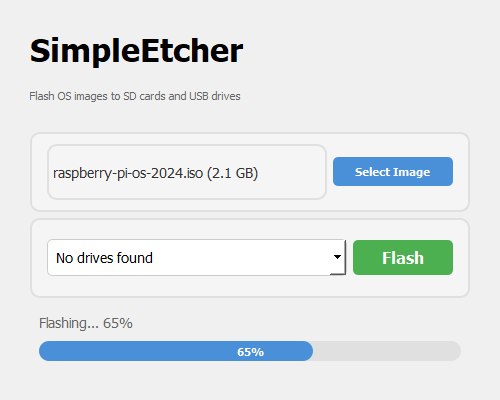
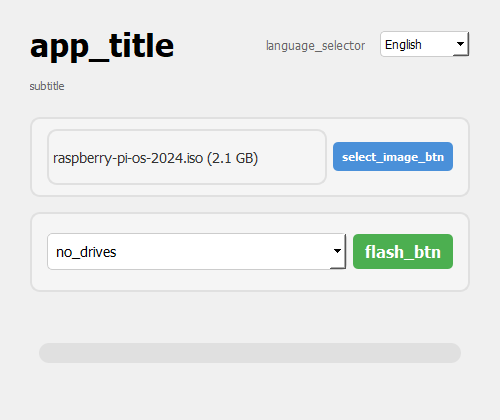
Add language selector with English and Persian translations, RTL support

diff --git a/etcher.py b/etcher.py
@@ -7,6 +7,7 @@ Flashes OS images (.iso, .img) to SD cards and USB drives.
 import sys
 import os
 import time
+import json
 import platform
 from datetime import timedelta
 
@@ -30,6 +31,30 @@ except ImportError:
 
 console = Console() if HAS_RICH else None
 
+# Translation system
+TRANSLATIONS = {}
+CURRENT_LANGUAGE = "en"
+
+def load_translations(lang):
+    global CURRENT_LANGUAGE, TRANSLATIONS
+    try:
+        with open(f"translations/{lang}.json", "r", encoding="utf-8") as f:
+            TRANSLATIONS = json.load(f)
+            CURRENT_LANGUAGE = lang
+            return True
+    except Exception as e:
+        print(f"Error loading translations for {lang}: {e}")
+        return False
+
+def t(key, **kwargs):
+    """Translate a key with optional string formatting."""
+    text = TRANSLATIONS.get(key, key)
+    if kwargs:
+        try:
+            text = text.format(**kwargs)
+        except Exception:
+            pass
+    return text
 
 def get_platform():
     """Detect current platform."""
@@ -212,8 +237,8 @@ class EtcherWindow(QMainWindow):
 
     def __init__(self):
         super().__init__()
-        self.setWindowTitle("SimpleEtcher")
-        self.setFixedSize(500, 400)
+        self.setWindowTitle(t("app_title"))
+        self.setFixedSize(500, 420)
 
         # State
         self.selected_image = None
@@ -223,19 +248,47 @@ class EtcherWindow(QMainWindow):
         central = QWidget()
         self.setCentralWidget(central)
         layout = QVBoxLayout(central)
-        layout.setSpacing(20)
-        layout.setContentsMargins(30, 30, 30, 30)
+        layout.setSpacing(15)
+        layout.setContentsMargins(30, 25, 30, 25)
 
-        # Title
-        title_label = QLabel("SimpleEtcher")
+        # Title row with language selector
+        title_row = QHBoxLayout()
+        
+        title_label = QLabel(t("app_title"))
         title_font = QFont()
         title_font.setBold(True)
         title_font.setPointSize(24)
         title_label.setFont(title_font)
-        layout.addWidget(title_label)
+        self.title_label = title_label
+        title_row.addWidget(title_label, 1)
+        
+        # Language selector
+        lang_row = QHBoxLayout()
+        lang_label = QLabel(t("language_selector"))
+        lang_label.setStyleSheet("color: #666; font-size: 12px;")
+        self.lang_combo = QComboBox()
+        self.lang_combo.addItems(["English", "فارسی"])
+        self.lang_combo.setCurrentIndex(0 if CURRENT_LANGUAGE == "en" else 1)
+        self.lang_combo.setFixedWidth(90)
+        self.lang_combo.setStyleSheet("""
+            QComboBox {
+                padding: 4px;
+                border: 1px solid #ccc;
+                border-radius: 4px;
+                background-color: white;
+                font-size: 12px;
+            }
+        """)
+        self.lang_combo.currentIndexChanged.connect(self.change_language)
+        lang_row.addWidget(lang_label)
+        lang_row.addWidget(self.lang_combo)
+        title_row.addLayout(lang_row)
+        
+        layout.addLayout(title_row)
 
-        subtitle_label = QLabel("Flash OS images to SD cards and USB drives")
+        subtitle_label = QLabel(t("subtitle"))
         subtitle_label.setStyleSheet("color: #666;")
+        self.subtitle_label = subtitle_label
         layout.addWidget(subtitle_label)
 
         layout.addSpacing(10)
@@ -253,11 +306,11 @@ class EtcherWindow(QMainWindow):
         image_layout = QHBoxLayout(self.image_card)
         image_layout.setContentsMargins(15, 10, 15, 10)
 
-        self.image_label = QLabel("No image selected")
+        self.image_label = QLabel(t("no_image"))
         self.image_label.setStyleSheet("color: #999; font-size: 14px;")
         image_layout.addWidget(self.image_label, 1)
 
-        self.select_image_btn = QPushButton("Select Image")
+        self.select_image_btn = QPushButton(t("select_image_btn"))
         self.select_image_btn.setFixedWidth(120)
         self.select_image_btn.setStyleSheet("""
             QPushButton {
@@ -303,7 +356,7 @@ class EtcherWindow(QMainWindow):
         self.refresh_drives()
         drive_layout.addWidget(self.drive_combo, 1)
 
-        self.flash_btn = QPushButton("Flash")
+        self.flash_btn = QPushButton(t("flash_btn"))
         self.flash_btn.setFixedWidth(100)
         self.flash_btn.setStyleSheet("""
             QPushButton {
@@ -360,9 +413,9 @@ class EtcherWindow(QMainWindow):
 
     def select_image(self):
         file_path, _ = QFileDialog.getOpenFileName(
-            self, "Select Image File",
+            self, t("select_image_dialog_title"),
             "",
-            "Disk Images (*.iso *.img);;All Files (*)"
+            t("image_files_filter")
         )
         if file_path:
             self.selected_image = file_path
@@ -377,7 +430,7 @@ class EtcherWindow(QMainWindow):
 
         drives = list_drives()
         if not drives:
-            self.drive_combo.addItem("No drives found")
+            self.drive_combo.addItem(t("no_drives"))
         else:
             for drive in drives:
                 size = format_size(drive["size"]) if drive["size"] > 0 else "unknown"
@@ -402,8 +455,8 @@ class EtcherWindow(QMainWindow):
 
         # Confirm
         reply = QMessageBox.question(
-            self, "Confirm Flash",
-            f"Flash {os.path.basename(self.selected_image)} to {drive_device}?\n\nThis will erase all data on the drive!",
+            self, t("confirm_flash_title"),
+            t("confirm_flash_msg", image=os.path.basename(self.selected_image), drive=drive_device),
             QMessageBox.Yes | QMessageBox.No,
             QMessageBox.No
         )
@@ -414,7 +467,7 @@ class EtcherWindow(QMainWindow):
         self.select_image_btn.setEnabled(False)
         self.drive_combo.setEnabled(False)
         self.flash_btn.setEnabled(False)
-        self.status_label.setText("Flashing...")
+        self.status_label.setText(t("flashing_status", pct=0))
         self.progress_bar.setValue(0)
 
         # Start worker
@@ -426,8 +479,44 @@ class EtcherWindow(QMainWindow):
     def update_progress(self, pct):
         self.progress_bar.setValue(pct)
         if pct < 100:
-            self.status_label.setText(f"Flashing... {pct}%")
+            self.status_label.setText(t("flashing_status", pct=pct))
 
+    def change_language(self, index):
+        lang = "en" if index == 0 else "fa"
+        load_translations(lang)
+        
+        # Update all UI elements
+        self.setWindowTitle(t("app_title"))
+        self.title_label.setText(t("app_title"))
+        self.subtitle_label.setText(t("subtitle"))
+        self.select_image_btn.setText(t("select_image_btn"))
+        self.flash_btn.setText(t("flash_btn"))
+        
+        if not self.selected_image:
+            self.image_label.setText(t("no_image"))
+        
+        # Update status label with translated key
+        current_pct = self.progress_bar.value()
+        if current_pct < 100:
+            self.status_label.setText(t("flashing_status", pct=current_pct))
+        else:
+            self.status_label.setText(t("flashing_complete"))
+        
+        # Refresh drives to update "No drives found" text
+        self.refresh_drives()
+        
+        # Update language combo display
+        if lang == "en":
+            self.lang_combo.setCurrentIndex(0)
+        else:
+            self.lang_combo.setCurrentIndex(1)
+        
+        # Set RTL layout for Persian
+        if lang == "fa":
+            self.setLayoutDirection(Qt.RightToLeft)
+        else:
+            self.setLayoutDirection(Qt.LeftToRight)
+    
     def flash_finished(self, success, message):
         # Re-enable UI
         self.select_image_btn.setEnabled(True)
@@ -435,18 +524,21 @@ class EtcherWindow(QMainWindow):
         self.flash_btn.setEnabled(True)
 
         if success:
-            self.status_label.setText("✓ " + message)
+            self.status_label.setText(t("flashing_complete"))
             self.status_label.setStyleSheet("color: #4CAF50; font-size: 14px; font-weight: bold;")
-            QMessageBox.information(self, "Success", message)
+            QMessageBox.information(self, t("success_dialog_title"), message)
         else:
-            self.status_label.setText("✗ " + message)
+            self.status_label.setText(t("error_prefix") + message)
             self.status_label.setStyleSheet("color: #f44336; font-size: 14px; font-weight: bold;")
-            QMessageBox.critical(self, "Error", message)
+            QMessageBox.critical(self, t("error_dialog_title"), message)
 
         self.progress_bar.setValue(0)
 
 
 def main():
+    # Load default translations
+    load_translations("en")
+    
     if HAS_QT:
         app = QApplication(sys.argv)
         window = EtcherWindow()

diff --git a/screenshot.py b/screenshot.py
@@ -3,9 +3,10 @@
 
 import sys
 import os
-from PyQt5.QtWidgets import QApplication, QFileDialog
+import time
+from PyQt5.QtWidgets import QApplication
 from PyQt5.QtCore import QTimer, Qt
-from etcher import EtcherWindow
+from etcher import EtcherWindow, load_translations, t
 
 def capture_screenshots():
     app = QApplication(sys.argv)
@@ -13,42 +14,36 @@ def capture_screenshots():
     window.show()
     app.processEvents()
 
-    # Screenshot 1: Initial state
-    QTimer.singleShot(500, lambda: take_screenshot(window, "screenshot_initial.png"))
-    
-    # Wait for first screenshot
-    app.processEvents()
-    import time
-    time.sleep(1)
+    # Screenshot 1: Initial state (English)
+    time.sleep(0.5)
+    take_screenshot(window, "screenshot_initial.png")
 
-    # Simulate selecting an image (just set the label text)
+    # Simulate selecting an image
     window.selected_image = "raspberry-pi-os-2024.iso"
     window.image_label.setText("raspberry-pi-os-2024.iso (2.1 GB)")
     window.image_label.setStyleSheet("color: #333; font-size: 14px;")
     app.processEvents()
 
-    # Screenshot 2: Image selected
-    QTimer.singleShot(500, lambda: take_screenshot(window, "screenshot_image_selected.png"))
-    time.sleep(1)
+    # Screenshot 2: Image selected (English)
+    time.sleep(0.5)
+    take_screenshot(window, "screenshot_image_selected.png")
 
     # Simulate progress
-    window.status_label.setText("Flashing... 65%")
+    window.status_label.setText(t("flashing_status", pct=65))
     window.progress_bar.setValue(65)
     app.processEvents()
 
-    # Screenshot 3: During flashing
-    QTimer.singleShot(500, lambda: take_screenshot(window, "screenshot_flashing.png"))
-    time.sleep(1)
+    # Screenshot 3: During flashing (English)
+    time.sleep(0.5)
+    take_screenshot(window, "screenshot_flashing.png")
 
-    # Simulate completion
-    window.status_label.setText("✓ Flashing complete!")
-    window.status_label.setStyleSheet("color: #4CAF50; font-size: 14px; font-weight: bold;")
-    window.progress_bar.setValue(100)
+    # Switch to Persian
+    window.change_language(1)  # Index 1 = Persian
     app.processEvents()
 
-    # Screenshot 4: Complete
-    QTimer.singleShot(500, lambda: take_screenshot(window, "screenshot_complete.png"))
-    time.sleep(1)
+    # Screenshot 4: Persian language
+    time.sleep(0.5)
+    take_screenshot(window, "screenshot_persian.png")
 
     print("Screenshots captured!")
     app.quit()

diff --git a/README.md b/README.md
@@ -6,6 +6,7 @@ A lightweight cross-platform disk imaging tool similar to BalenaEtcher, with a m
 
 ## Features
 - 🖥 Modern PyQt5 GUI interface
+- 🌍 Multi-language support (English & Persian)
 - 🔍 Automatic drive detection
 - 📊 Real-time progress bar
 - 🔄 Background flashing (doesn't block UI)
@@ -46,6 +47,9 @@ python etcher.py
 
 ### During Flashing
 ![Flashing Progress](screenshot_flashing.png)
+
+### Persian Language Support
+![Persian Interface](screenshot_persian.png)
 
 ## Platform Support
 - **Windows**: Uses pywin32 for direct drive access
